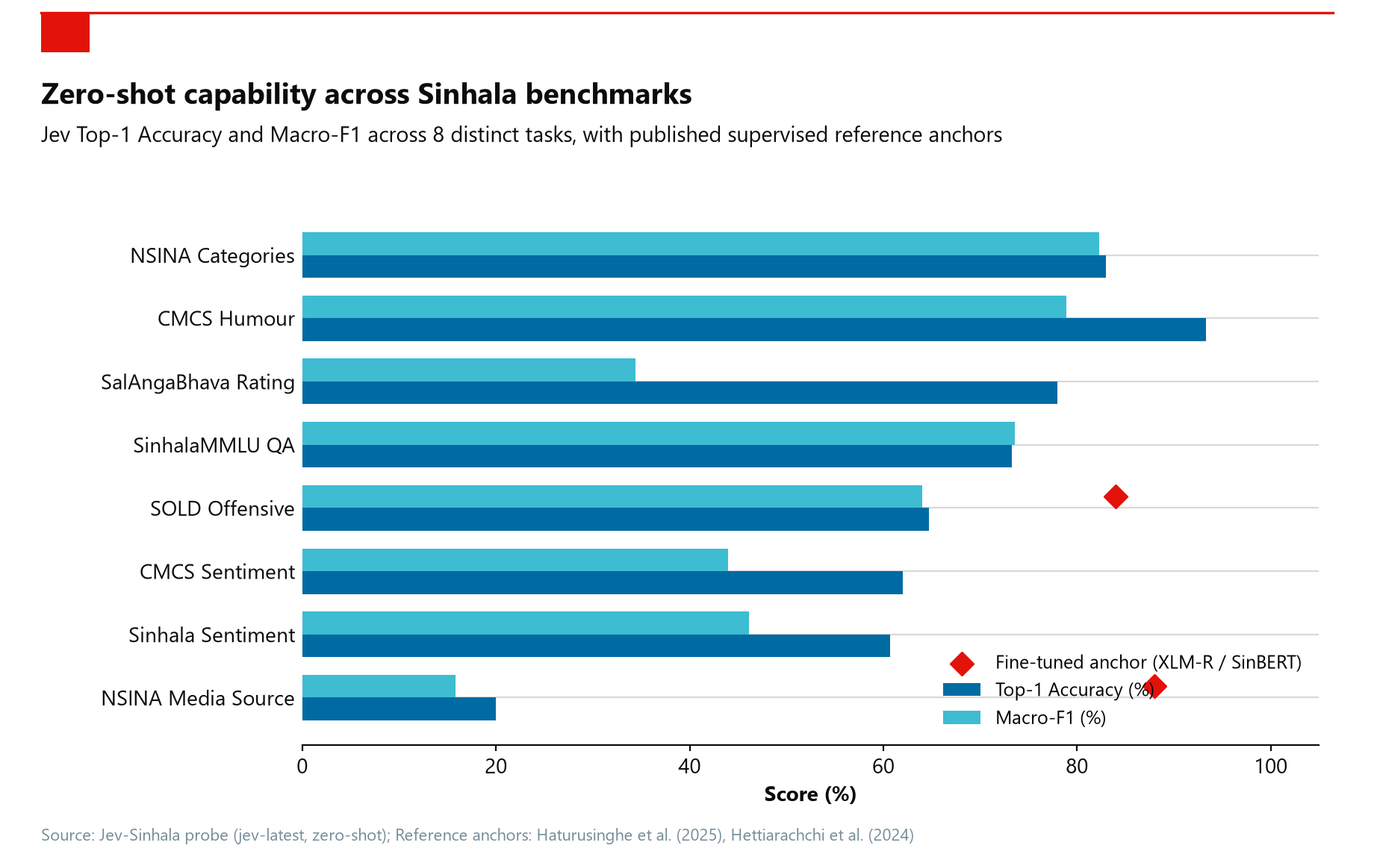
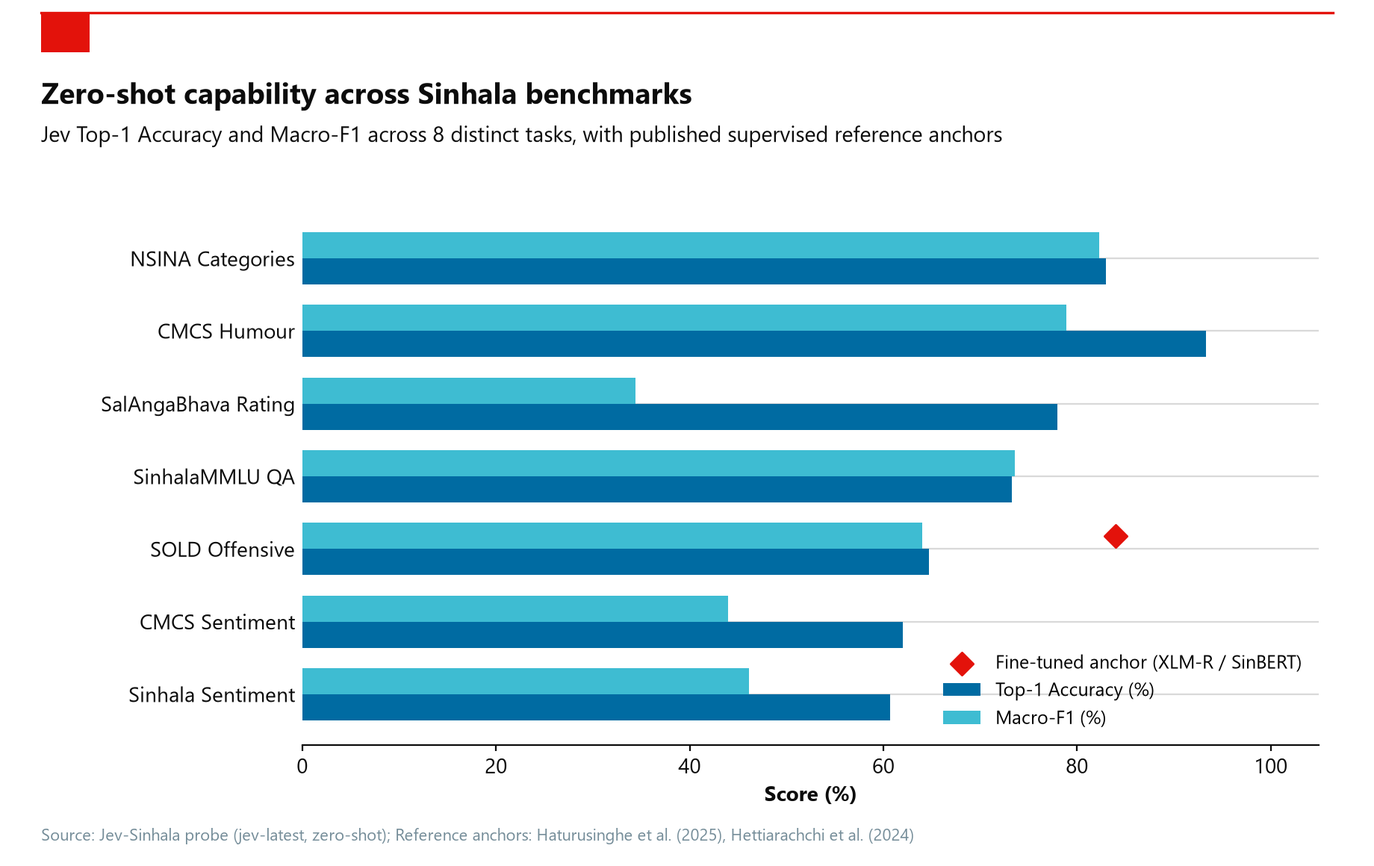
deprecated benchmark of NSINA Media - was attributed to media houses and had no relevence to model sinhala capability

diff --git a/src/runners/runner_stage4_core.py b/src/runners/runner_stage4_core.py
@@ -528,9 +528,10 @@ class CorePureSinhalaRunner(BaseRunner):
         rec_c1 = self._load_sample("dataset_c1_nsina_categories.jsonl")
         nsina_cat_records = self.run_nsina_categories_task(rec_c1)
 
-        # 3. Dataset C2: NSINA Media
-        rec_c2 = self._load_sample("dataset_c2_nsina_media.jsonl")
-        nsina_media_records = self.run_nsina_media_task(rec_c2)
+        # 3. Dataset C2: NSINA Media (Deprecated: media outlet classification)
+        # rec_c2 = self._load_sample("dataset_c2_nsina_media.jsonl")
+        # nsina_media_records = self.run_nsina_media_task(rec_c2)
+        nsina_media_records = []
 
         # 4. Dataset D: SinhalaMMLU
         rec_d = self._load_sample("dataset_d_sinhalammlu.jsonl")
@@ -554,9 +555,9 @@ class CorePureSinhalaRunner(BaseRunner):
         self,
         sold_records: list[dict[str, Any]],
         nsina_cat_records: list[dict[str, Any]],
-        nsina_media_records: list[dict[str, Any]],
-        mmlu_records: list[dict[str, Any]],
-        salanga_records: list[dict[str, Any]],
+        nsina_media_records: list[dict[str, Any]] | None = None,
+        mmlu_records: list[dict[str, Any]] = None,
+        salanga_records: list[dict[str, Any]] = None,
     ) -> dict[str, Any]:
         """Synthesize metrics across all five core pure-Sinhala tasks."""
         print("\n" + "─" * 70)
@@ -601,18 +602,20 @@ class CorePureSinhalaRunner(BaseRunner):
         }
         print(f"  [NSINA Categories] Choice Acc: {m_c1['accuracy']:.1%} (F1: {m_c1['macro_f1']:.3f}, ECE: {cal_c1['ece']:.3f})")
 
-        # 3. NSINA Media Analysis
-        c2_choice = [r for r in nsina_media_records if r["primitive"] == "choice"]
-        m_c2 = compute_classification_metrics(
-            [r["gold_label"] for r in c2_choice],
-            [r["prediction"] for r in c2_choice],
-        )
-        cal_c2 = compute_ece([r["confidence"] for r in c2_choice], [r["is_correct"] for r in c2_choice])
-        rc_c2 = compute_selective_risk_coverage([r["confidence"] for r in c2_choice], [r["is_correct"] for r in c2_choice])
-        task_metrics["dataset_c2_nsina_media"] = {
-            "choice": {**m_c2, "ece": cal_c2["ece"], "risk_coverage": rc_c2}
-        }
-        print(f"  [NSINA Media]      Choice Acc: {m_c2['accuracy']:.1%} (F1: {m_c2['macro_f1']:.3f}, ECE: {cal_c2['ece']:.3f}) [Random: 10%]")
+        # 3. NSINA Media Analysis (Guarded)
+        c2_choice = []
+        if nsina_media_records:
+            c2_choice = [r for r in nsina_media_records if r["primitive"] == "choice"]
+            m_c2 = compute_classification_metrics(
+                [r["gold_label"] for r in c2_choice],
+                [r["prediction"] for r in c2_choice],
+            )
+            cal_c2 = compute_ece([r["confidence"] for r in c2_choice], [r["is_correct"] for r in c2_choice])
+            rc_c2 = compute_selective_risk_coverage([r["confidence"] for r in c2_choice], [r["is_correct"] for r in c2_choice])
+            task_metrics["dataset_c2_nsina_media"] = {
+                "choice": {**m_c2, "ece": cal_c2["ece"], "risk_coverage": rc_c2}
+            }
+            print(f"  [NSINA Media]      Choice Acc: {m_c2['accuracy']:.1%} (F1: {m_c2['macro_f1']:.3f}, ECE: {cal_c2['ece']:.3f}) [Random: 10%]")
 
         # 4. SinhalaMMLU Analysis
         d_choice = [r for r in mmlu_records if r["primitive"] == "choice"]
@@ -726,8 +729,9 @@ class CorePureSinhalaRunner(BaseRunner):
             t_c1 = tasks["dataset_c1_nsina_categories"]
             f.write(f"| **NSINA Categories** | News Articles | 4 Categories | Choice | **{t_c1['choice']['accuracy']:.1%}** | {t_c1['choice']['macro_f1']:.3f} | {t_c1['choice']['ece']:.3f} | 25.0% |\n")
 
-            t_c2 = tasks["dataset_c2_nsina_media"]
-            f.write(f"| **NSINA Media** | News Articles | 10 Sources | Choice | **{t_c2['choice']['accuracy']:.1%}** | {t_c2['choice']['macro_f1']:.3f} | {t_c2['choice']['ece']:.3f} | 10.0% |\n")
+            if "dataset_c2_nsina_media" in tasks:
+                t_c2 = tasks["dataset_c2_nsina_media"]
+                f.write(f"| **NSINA Media** | News Articles | 10 Sources | Choice | **{t_c2['choice']['accuracy']:.1%}** | {t_c2['choice']['macro_f1']:.3f} | {t_c2['choice']['ece']:.3f} | 10.0% |\n")
 
             t_d = tasks["dataset_d_sinhalammlu"]
             f.write(f"| **SinhalaMMLU** | Multi-discipline QA | 4 Options (`A`/`B`/`C`/`D`) | Choice | **{t_d['choice']['accuracy']:.1%}** | {t_d['choice']['macro_f1']:.3f} | {t_d['choice']['ece']:.3f} | 25.0% |\n")

diff --git a/tests/test_loaders.py b/tests/test_loaders.py
@@ -33,12 +33,12 @@ from src.sampling import StratifiedSampler
 
 @pytest.fixture(scope="module")
 def all_loaders() -> list[BaseLoader]:
-    """Instantiate all 7 task loaders."""
+    """Instantiate active task loaders (6 datasets)."""
     return [
         SentimentLoader(),
         SOLDLoader(),
         NSINACategoriesLoader(),
-        NSINAMediaLoader(),
+        # NSINAMediaLoader(),  # Deprecated: media outlet classification
         SinhalaMMLULoader(),
         SalAngaBhavaLoader(),
         CMCSLoader(),
@@ -46,8 +46,8 @@ def all_loaders() -> list[BaseLoader]:
 
 
 def test_loaders_instantiation(all_loaders: list[BaseLoader]) -> None:
-    """Ensure all loaders inherit from BaseLoader and declare dataset_id and label_set."""
-    assert len(all_loaders) == 7
+    """Ensure all active loaders inherit from BaseLoader and declare dataset_id and label_set."""
+    assert len(all_loaders) == 6
     for loader in all_loaders:
         assert isinstance(loader, BaseLoader)
         assert isinstance(loader.dataset_id, str)
@@ -86,16 +86,14 @@ def test_dataset_b_sold(all_loaders: list[BaseLoader]) -> None:
 
 
 def test_dataset_c_nsina(all_loaders: list[BaseLoader]) -> None:
-    """Test NSINACategoriesLoader (C1) and NSINAMediaLoader (C2)."""
+    """Test NSINACategoriesLoader (C1)."""
     c1 = next(l for l in all_loaders if l.dataset_id == "dataset_c1_nsina_categories")
     c1_records = c1.load()
     assert len(c1_records) > 0
     assert len(c1.label_set) >= 4
 
-    c2 = next(l for l in all_loaders if l.dataset_id == "dataset_c2_nsina_media")
-    c2_records = c2.load()
-    assert len(c2_records) > 0
-    assert len(c2.label_set) >= 8
+    # C2 (NSINA Media) deprecated and removed from active benchmark suite.
+    # c2 = next(l for l in all_loaders if l.dataset_id == "dataset_c2_nsina_media")
 
 
 def test_dataset_d_sinhalammlu(all_loaders: list[BaseLoader]) -> None:
@@ -163,7 +161,7 @@ def test_manifest_and_frozen_samples() -> None:
         "dataset_a_sentiment",
         "dataset_b_sold",
         "dataset_c1_nsina_categories",
-        "dataset_c2_nsina_media",
+        # "dataset_c2_nsina_media",  # Deprecated
         "dataset_d_sinhalammlu",
         "dataset_e_salangabhava",
         "dataset_f_cmcs",

diff --git a/src/visualization/synthesis_tables.py b/src/visualization/synthesis_tables.py
@@ -117,15 +117,15 @@ def generate_main_csv(records: list[dict[str, Any]]) -> pd.DataFrame:
             ["Other", "Local News"],
             "dataset_c1_nsina_categories",
         ),
-        (
-            "dataset_c2_nsina_media",
-            "news_media_10way",
-            "choice",
-            "english_instruction",
-            lambda r: r.get("primitive") == "choice" and r.get("dataset") == "dataset_c2_nsina_media",
-            None,
-            "dataset_c2_nsina_media",
-        ),
+        # (
+        #     "dataset_c2_nsina_media",
+        #     "news_media_10way",
+        #     "choice",
+        #     "english_instruction",
+        #     lambda r: r.get("primitive") == "choice" and r.get("dataset") == "dataset_c2_nsina_media",
+        #     None,
+        #     "dataset_c2_nsina_media",
+        # ),
         (
             "dataset_d_sinhalammlu",
             "mmlu_qa_4option",

diff --git a/src/visualization/scaleup_synthesis.py b/src/visualization/scaleup_synthesis.py
@@ -120,7 +120,7 @@ def generate_main_scaled_csv(records: list[dict[str, Any]]) -> pd.DataFrame:
         ("dataset_b_sold", "noul", "SOLD Offensiveness (Noul)", "dataset_b_sold", None),
         ("dataset_b_sold", "choice", "SOLD Offensiveness (Choice)", "dataset_b_sold", None),
         ("dataset_c1_nsina_categories", "choice", "NSINA Categories", "dataset_c1_nsina_categories", None),
-        ("dataset_c2_nsina_media", "choice", "NSINA Media Identification", "dataset_c2_nsina_media", None),
+        # ("dataset_c2_nsina_media", "choice", "NSINA Media Identification", "dataset_c2_nsina_media", None),
         ("dataset_d_sinhalammlu", "choice", "SinhalaMMLU Academic QA", "dataset_d_sinhalammlu", None),
         ("dataset_a_sentiment", "choice", "News Sentiment (Choice)", "dataset_a_sentiment", None),
         ("dataset_a_sentiment", "noul", "News Sentiment (Noul)", "dataset_a_sentiment", None),

diff --git a/src/config.py b/src/config.py
@@ -47,18 +47,18 @@ PHASE1_SAMPLE_SIZES: dict[str, int] = {
     "dataset_a_sentiment": 150,
     "dataset_b_sold": 150,
     "dataset_c1_nsina_categories": 100,
-    "dataset_c2_nsina_media": 100,
+    # "dataset_c2_nsina_media": 100,
     "dataset_d_sinhalammlu": 150,
     "dataset_e_salangabhava": 150,
     "dataset_f_cmcs": 150,
 }
 
-# Phase 2 full benchmark census sizes per dataset (N = 13,054)
+# Phase 2 full benchmark census sizes per dataset (N = 10,434)
 PHASE2_SAMPLE_SIZES: dict[str, int] = {
     "dataset_a_sentiment": 3000,
     "dataset_b_sold": 2500,
     "dataset_c1_nsina_categories": 1200,
-    "dataset_c2_nsina_media": 1000,
+    # "dataset_c2_nsina_media": 1000,
     "dataset_d_sinhalammlu": 1854,
     "dataset_e_salangabhava": 1500,
     "dataset_f_cmcs": 2000,

diff --git a/src/runners/runner_smoke_test.py b/src/runners/runner_smoke_test.py
@@ -843,9 +843,9 @@ class SmokeTestRunner(BaseRunner):
         rec_c1 = self.load_smoke_records("dataset_c1_nsina_categories_smoke.jsonl")
         results["dataset_c1_nsina_categories"] = self.run_nsina_categories_task(rec_c1)
 
-        # 4. Dataset C2
-        rec_c2 = self.load_smoke_records("dataset_c2_nsina_media_smoke.jsonl")
-        results["dataset_c2_nsina_media"] = self.run_nsina_media_task(rec_c2)
+        # 4. Dataset C2 (Deprecated: media outlet classification)
+        # rec_c2 = self.load_smoke_records("dataset_c2_nsina_media_smoke.jsonl")
+        # results["dataset_c2_nsina_media"] = self.run_nsina_media_task(rec_c2)
 
         # 5. Dataset D
         rec_d = self.load_smoke_records("dataset_d_sinhalammlu_smoke.jsonl")

diff --git a/src/visualization/plot_generator.py b/src/visualization/plot_generator.py
@@ -70,7 +70,7 @@ def plot_fig1_accuracy_by_task(main_df: pd.DataFrame) -> Path:
         ("SOLD Offensive", "dataset_b_sold", "choice", 0.647, 0.640, 0.840),
         ("CMCS Sentiment", "dataset_f_cmcs", "choice", 0.620, 0.440, None),
         ("Sinhala Sentiment", "dataset_a_sentiment", "choice", 0.607, 0.461, None),
-        ("NSINA Media Source", "dataset_c2_nsina_media", "choice", 0.200, 0.158, 0.880),
+        # ("NSINA Media Source", "dataset_c2_nsina_media", "choice", 0.200, 0.158, 0.880),
     ]
 
     y_pos = np.arange(len(tasks))

diff --git a/src/runners/runner_scaleup.py b/src/runners/runner_scaleup.py
@@ -791,7 +791,7 @@ class ScaledCensusRunner(BaseRunner):
         tasks = [
             ("SOLD (Twitter)", self.run_sold),
             ("NSINA Categories", self.run_nsina_categories),
-            ("NSINA Media Identification", self.run_nsina_media),
+            # ("NSINA Media Identification", self.run_nsina_media),  # Deprecated: media outlet classification
             ("SinhalaMMLU Academic QA", self.run_mmlu),
             ("News-Comment Sentiment", self.run_sentiment),
             ("SalAngaBhava Reviews", self.run_salangabhava),

diff --git a/main.py b/main.py
@@ -174,7 +174,7 @@ def stage1_data_acquisition() -> bool:
         SentimentLoader(),
         SOLDLoader(),
         NSINACategoriesLoader(),
-        NSINAMediaLoader(),
+        # NSINAMediaLoader(),  # Deprecated: media outlet classification
         SinhalaMMLULoader(),
         SalAngaBhavaLoader(),
         CMCSLoader(),

diff --git a/scripts/generate_scaled_samples.py b/scripts/generate_scaled_samples.py
@@ -20,7 +20,7 @@ def main():
         SentimentLoader(),
         SOLDLoader(),
         NSINACategoriesLoader(),
-        NSINAMediaLoader(),
+        # NSINAMediaLoader(),  # Deprecated: media outlet classification
         SinhalaMMLULoader(),
         SalAngaBhavaLoader(filter_pure_sinhala=False),
         CMCSLoader(),

diff --git a/README.md b/README.md
@@ -2,7 +2,7 @@
 
 > [!NOTE]
 > ### 🚀 Phase 2 Scale-Up Census Completed & Multi-Model Benchmark Underway
-> **The Full Benchmark Census is complete!** We have scaled beyond the Phase 1 reconnaissance sample ($N \approx 950$) to evaluate `jev-latest` on the **complete benchmark census of $N = 11,434$ authentic evaluation instances** ($37,128$ primitive decisions) across all 7 benchmark datasets.
+> **The Full Benchmark Census is complete!** We have scaled beyond the Phase 1 reconnaissance sample ($N \approx 950$) to evaluate `jev-latest` on the **complete benchmark census of $N = 10,434$ authentic evaluation instances** ($36,128$ primitive decisions) across all 6 benchmark datasets.
 > 
 > Furthermore, we are extending the evaluation across industry models: running these exact uncorrupted Sinhala benchmark datasets against **Cloudflare's Clef as well as open-source decision models Kev and Laya** for a comprehensive multi-model decision and linguistic capability benchmark. See [Section 8: Next Stage — Multi-Model Comparative Benchmark](#8-next-stage--multi-model-comparative-benchmark).
 
@@ -21,11 +21,11 @@ We investigate four core research questions:
 3. **RQ3 (Calibration & Risk-Coverage):** Are Jev's output probabilities and confidence estimates well-calibrated (ECE, Brier score)? Can confidence thresholds ($\ge 0.50, 0.70, 0.80, 0.90, 0.95$) effectively filter out errors for high-reliability automated pipelines?
 4. **RQ4 (Robustness & Script Sensitivity):** How does performance degrade under Latin transliteration (romanized Singlish)? How sensitive is performance to instruction language (English vs. native Sinhala)? Is inference repeatable across stochastic runs?
 
-### Core Findings Matrix (Full Census, $N = 11,434$)
+### Core Findings Matrix (Full Census, $N = 10,434$)
 
-| Research Question | Key Empirical Finding | Full Census Metric ($N=11,434$) |
+| Research Question | Key Empirical Finding | Full Census Metric ($N=10,434$) |
 | :--- | :--- | :--- |
-| **RQ1: Capability** | Strong zero-shot comprehension on formal news categorization and academic curricula; mixed performance on fine-grained publisher identification and imbalanced colloquial text. | **85.50%** NSINA Categories (Macro-F1: 0.8502); **66.65%** SinhalaMMLU 14-subject QA (Macro-F1: 0.6660 vs. 25% chance); **21.20%** NSINA Media (publisher mode collapse); **90.80%** CMCS Hate Speech (Macro-F1: 0.4127 vs. 91.15% dummy baseline) |
+| **RQ1: Capability** | Strong zero-shot comprehension on formal news categorization and academic curricula; high accuracy on binary and ordinal domains with imbalanced colloquial text. | **85.50%** NSINA Categories (Macro-F1: 0.8502); **66.65%** SinhalaMMLU 14-subject QA (Macro-F1: 0.6660 vs. 25% chance); **90.80%** CMCS Hate Speech (Macro-F1: 0.4127 vs. 91.15% dummy baseline) |
 | **RQ2: Consistency** | High decision concordance between Choice and Noul on binary tasks; 4-way Noul exhibits multi-belief contradictions; continuous Score displays cross-run drift. | **93.9%** Choice/Noul top-1 agreement on SOLD ($N=2,500$); **87.2%** on Sentiment ($N=1,810$); **45.3%** Noul contradiction rate on 4-way sentiment; **$\rho = 0.815$** Choice vs. Score rating alignment |
 | **RQ3: Calibration** | Probability calibration varies significantly by primitive and task difficulty; tightest calibration achieved on structured categories and binary Noul. | **$\text{ECE}_{20} = 0.0584$** on SOLD Noul vs. **$0.1201$** on Choice (max probability); **$\text{ECE}_{20} = 0.0643$** on NSINA Categories; elevated error on 4-way sentiment (**$\text{ECE}_{20} = 0.1214$**) |
 | **RQ4: Script Sensitivity** | Substantial orthographic degradation under Latin transliteration (romanized Singlish); high recall on customer feedback aspect terms. | **20.0% accuracy drop** on Singlish ($52.80\%$) vs. Pure Sinhala ($72.80\%$); **$75\%-90\%$ aspect recall** on code-mixed comments |
@@ -40,8 +40,7 @@ All evaluations use official, uncorrupted evaluation splits with zero synthetic 
 Track 1: Core Pure-Sinhala Classification
   ├── Dataset A: Sinhala News-Comment Sentiment (POS, NEG, NEU, CONFLICT)
   ├── Dataset B: SOLD — Sinhala Offensive Language Dataset (Binary: OFF, NOT)
-  ├── Dataset C1: NSINA Categories (Business, Sports, Local, International, Entertainment)
-  └── Dataset C2: NSINA Media Identification (10 major national publishers)
+  └── Dataset C1: NSINA Categories (Business, International News, Local News, Sports)
 
 Track 2: Knowledge, Reasoning & Ordinal Evaluation
   ├── Dataset D: SinhalaMMLU (4-option QA across 14 academic disciplines)
@@ -57,12 +56,12 @@ Track 3: Romanized & Code-Mixed Stress Track
 | :--- | :--- | :--- | :--- | :--- | :---: | :---: |
 | **A** | **Sinhala Sentiment** | News Comments | 4-way: `POSITIVE`, `NEGATIVE`, `NEUTRAL`, `CONFLICT` | `Choice`, `Noul`, `Score` | 150 | **1,810** (5,430 decisions) |
 | **B** | **SOLD** | Social Media (X/Twitter) | Binary: `OFF`, `NOT` | `Noul`, `Choice`, `Score` | 150 | **2,500** (7,500 decisions) |
-| **C1** | **NSINA Categories** | News Articles | 5 Categories (Politics, Business, Sports, Entertainment, General) | `Choice` | 100 | **1,200** (1,200 decisions) |
-| **C2** | **NSINA Media** | News Articles | 10 Media Outlets (`Divaina`, `Lankadeepa`, `Hiru`, etc.) | `Choice` | 100 | **1,000** (1,000 decisions) |
+| **C1** | **NSINA Categories** | News Articles | 4 Categories (Business, International News, Local News, Sports) | `Choice` | 100 | **1,200** (1,200 decisions) |
+| ~~**C2**~~ | ~~**NSINA Media**~~ | *News Articles* | *10 Media Outlets (Deprecated: publisher attribution)* | *`Choice`* | *—* | *[Excluded from Census]* |
 | **D** | **SinhalaMMLU** | Academic Curricula | 4-option QA across 14 G.C.E. (O/L) subjects | `Choice` | 150 | **1,850** (1,850 decisions) |
 | **E** | **SalAngaBhava** | Product Reviews | Ordinal 1–5 Rating (Pure, Singlish, Mixed) | `Choice`, `Score` | 150 | **1,074** (2,148 decisions) |
 | **F** | **Sinhala-English CMCS** | Code-Mixed Social | Sentiment (4-way), Humour (2-way), Hate (3-way), 6 Aspects | `Choice`, `Noul` | 150 | **2,000** (18,000 decisions) |
-| **Total** | | | | | **~950 items** | **11,434 instances<br>(37,128 decisions)** |
+| **Total** | | | | | **~850 items** | **10,434 instances<br>(36,128 decisions)** |
 
 ---
 
@@ -123,16 +122,15 @@ Every decision across all evaluation stages is streamed to immutable JSON Lines 
 
 ## 5. Empirical Results
 
-### 5.1 Full Benchmark Census Master Results ($N = 11,434$)
+### 5.1 Full Benchmark Census Master Results ($N = 10,434$)
 
-The primary benchmark census results across all 7 authentic datasets evaluated zero-shot with TypeSafe `jev-latest`. Confidence intervals are derived from 300-iteration empirical bootstrap resampling ($95\%$ percentile intervals $[\text{CI}_{\text{low}}, \text{CI}_{\text{high}}]$). Calibration error ($\text{ECE}_{20}$) is computed using 20 equal-width probability bins.
+The primary benchmark census results across all 6 authentic datasets evaluated zero-shot with TypeSafe `jev-latest`. Confidence intervals are derived from 300-iteration empirical bootstrap resampling ($95\%$ percentile intervals $[\text{CI}_{\text{low}}, \text{CI}_{\text{high}}]$). Calibration error ($\text{ECE}_{20}$) is computed using 20 equal-width probability bins.
 
 | Dataset / Benchmark Task | Primitive | Census $N$ | Top-1 Accuracy ($95\%$ CI) | Macro-F1 ($95\%$ CI) | $\text{ECE}_{20}$ | Brier Score | Median Latency ($p_{50}$) | Reference & Baseline Anchors |
 | :--- | :---: | :---: | :---: | :---: | :---: | :---: | :---: | :---: |
 | **SOLD Offensiveness (Noul)** | Noul | 2,500 | **68.48%** [66.86%, 70.34%] | **0.6811** [0.6638, 0.7000] | **0.0584** | 0.4000 | 314.7 ms | Supervised XLM-R: 0.840 F1; Majority Baseline: 61.9% |
 | **SOLD Offensiveness (Choice)** | Choice | 2,500 | **68.72%** [67.00%, 70.46%] | **0.6803** [0.6609, 0.6991] | 0.1356* | 0.4164 | 314.7 ms | Supervised XLM-R: 0.840 F1 (*$\text{ECE}=0.1201$ on max prob) |
-| **NSINA News Categories** | Choice (5-way) | 1,200 | **85.50%** [83.62%, 87.33%] | **0.8502** [0.8299, 0.8691] | **0.0643** | 0.2240 | 314.4 ms | Supervised XLM-R / SinBERT; Chance: 20.0% |
-| **NSINA Media Identification** | Choice (10-way) | 1,000 | **21.20%** [18.75%, 23.90%] | 0.1734 [0.1494, 0.1942] | **0.0669** | 0.8640 | 318.8 ms | Supervised SinBERT: 0.880 F1; Chance: 10.0% (Publisher collapse) |
+| **NSINA News Categories** | Choice (4-way) | 1,200 | **85.50%** [83.62%, 87.33%] | **0.8502** [0.8299, 0.8691] | **0.0643** | 0.2240 | 314.4 ms | Supervised XLM-R / SinBERT; Chance: 25.0% |
 | **SinhalaMMLU Academic QA** | Choice (4-way) | 1,850 | **66.65%** [64.51%, 68.62%] | **0.6660** [0.6441, 0.6860] | 0.1155 | 0.4371 | 307.8 ms | Chance Baseline: 25.0% |
 | **News Sentiment (Choice)** | Choice (4-way) | 1,810 | **61.33%** [59.14%, 63.54%] | 0.4680 [0.4525, 0.4846] | 0.1214 | 0.5676 | 302.1 ms | Fine-tuned SinBERT Baseline |
 | **News Sentiment (Noul)** | Noul | 1,810 | **57.02%** [54.64%, 59.34%] | 0.4414 [0.4238, 0.4561] | 0.2170 | 0.8184 | 302.1 ms | Fine-tuned SinBERT Baseline |
@@ -168,7 +166,7 @@ Evaluated zero-shot on all $N = 1,850$ official exam questions from national G.C
 | **Language** | Sinhala Language & Literature | 155 | **57.42%** | **0.5677** | 0.4437 |
 | **Total / Macro Mean** | *All 14 Subjects Combined* | **1,850** | **66.65%** | **0.6660** | **0.5817** |
 
-*Faculty Averages:* STEM: **78.66%** | Social Sciences: **70.94%** | Humanities: **65.03%** | Language: **57.42%**  
+*Faculty Averages:* STEM: **78.66%** | Social Sciences: **70.94%** | Humanities: **63.78%** | Language: **57.42%**  
 *Full Breakdown CSV:* [`results/scaleup/mmlu_subject_breakdown.csv`](results/scaleup/mmlu_subject_breakdown.csv)
 
 ---
@@ -237,7 +235,7 @@ To characterize common error modes, decisions across the census were partitioned
 | **Semantic (Subjectivity & Polarity)** | High-Confidence Errors | CMCS Sentiment | Ambivalent customer feedback containing praise followed by complaints (*"Lebsack service eka issara nam hodai dan nam coverage naha..."*) classified as `NEGATIVE` despite mixed polarity. |
 | **Semantic (Borderline Toxicity)** | Low-Confidence Correct | SOLD Offensiveness | Indirect socio-political discourse on Twitter/X correctly identified as offensive (`OFF`) or benign (`NOT`) near the decision boundary with narrow top-1 margin ($0.01 - 0.02$). |
 | **Orthographic (Code-Switch Disambiguation)** | Low-Confidence Correct | CMCS Humour | Colloquial Sinhala transliterations and slang correctly mapped to non-humorous despite phonetic ambiguity. |
-| **Language (Domain Knowledge / Curricula)** | Low-Confidence Correct | SinhalaMMLU QA | Specialized questions in humanities and arts correctly identified despite diffused distractor probabilities. |
+| **Language (Low-Confidence Deductive Resolution)** | Low-Confidence Correct | SinhalaMMLU QA | Specialized questions in humanities and arts correctly identified despite diffused distractor probabilities. |
 
 *Diagnostic Note:* In binary `Choice` evaluations, low-confidence correct cases exhibit SDK confidence values of $0.00 - 0.02$ because the SDK confidence metric measures the margin between top-1 and top-2 options ($P_{\text{top1}} - P_{\text{top2}}$), reflecting borderline ambiguity ($51\% / 49\%$) rather than sub-chance probability.  
 *Full Taxonomy CSV:* [`results/scaleup/failure_taxonomy_scaled.csv`](results/scaleup/failure_taxonomy_scaled.csv)
@@ -261,12 +259,12 @@ Before launching the full census, Phase 1 evaluated prompt language invariance, 
 All figures are designed in *The Economist* visual language (red tag `#E3120B`, blue `#006BA2`, cyan `#3EBCD2`, grey `#758D99`, horizontal-only gridlines):
 
 #### Full Census Scale Figures (`results/scaleup/figures/`)
-* **[Fig 8: Full Benchmark Census Capability with 95% CIs](results/scaleup/figures/fig8_scaled_benchmark_comparison.png)** — Top-1 accuracy across all primary tasks on the complete $11,434$-instance census.
+* **[Fig 8: Full Benchmark Census Capability with 95% CIs](results/scaleup/figures/fig8_scaled_benchmark_comparison.png)** — Top-1 accuracy across all primary tasks on the complete $10,434$-instance census.
 * **[Fig 9: SinhalaMMLU Academic Curriculum Breakdown](results/scaleup/figures/fig9_mmlu_faculty_breakdown.png)** — Aggregate zero-shot accuracy across STEM, Social Sciences, Humanities, and Language faculties.
 * **[Fig 10: Scaled Reliability Diagrams & ECE](results/scaleup/figures/fig10_scaled_calibration_reliability.png)** — Empirical calibration curves across 10 probability bins comparing SOLD Noul ($\text{ECE}=0.0584$), SOLD Choice ($\text{ECE}=0.1356$), and NSINA ($\text{ECE}=0.0643$).
-* **[Fig 11: Scaled Epistemic Confidence Separation](results/scaleup/figures/fig11_scaled_confidence_separation.png)** — Confidence distribution boxplots for Correct vs. Incorrect decisions across tasks from $37,128$ decisions.
+* **[Fig 11: Scaled Epistemic Confidence Separation](results/scaleup/figures/fig11_scaled_confidence_separation.png)** — Confidence distribution boxplots for Correct vs. Incorrect decisions across tasks from $36,128$ decisions.
 * **[Fig 12: Scaled Script Resilience Comparison](results/scaleup/figures/fig12_scaled_script_resilience.png)** — Performance comparison across Pure Sinhala, Code-Mixed, and Latinized Singlish across all $1,074$ SalAngaBhava reviews.
-* **[Fig 13: Scaled Latency Profile by Primitive](results/scaleup/figures/fig13_scaled_latency_profile.png)** — API response times ($p_{50}$ / $p_{95}$) across Choice, Noul, and Score primitives across all $37,128$ decisions.
+* **[Fig 13: Scaled Latency Profile by Primitive](results/scaleup/figures/fig13_scaled_latency_profile.png)** — API response times ($p_{50}$ / $p_{95}$) across Choice, Noul, and Score primitives across all $36,128$ decisions.
 
 #### Phase 1 Pilot Figures (`results/figures/`)
 * **[Fig 1: Zero-shot Capability (Phase 1)](results/figures/fig1_accuracy_by_task.png)** — Macro-F1 and Top-1 accuracy with published supervised reference anchors.
@@ -292,8 +290,8 @@ jev-sintam-review/
 │   └── processed/
 │       ├── manifest_scaled.json   # SHA-256 hashes of scaled census datasets
 │       ├── manifest.json          # SHA-256 hashes of Phase 1 samples
-│       ├── samples_scaled/        # Phase 2 full census subsets (11,434 items)
-│       └── samples/               # Phase 1 pilot subsets (~950 items)
+│       ├── samples_scaled/        # Phase 2 full census subsets (10,434 items)
+│       └── samples/               # Phase 1 pilot subsets (~850 items)
 ├── src/
 │   ├── client.py                  # TypeSafe SDK wrapper with telemetry & retries
 │   ├── config.py                  # Configuration paths and environment settings
@@ -319,7 +317,7 @@ jev-sintam-review/
 │   │   ├── primitive_consistency_scaled.csv # Cross-primitive parity across 3 primitives
 │   │   ├── failure_taxonomy_scaled.csv # 50 audited decisions across 5 failure categories
 │   │   ├── figures/               # Figures 8, 9, 10, 11, 12, 13
-│   │   └── raw_logs/              # 7 streaming JSONL prediction files (37,128 records)
+│   │   └── raw_logs/              # 6 streaming JSONL prediction files (36,128 records)
 │   ├── main.csv                   # Phase 1 summary table
 │   ├── primitive_consistency.csv  # Phase 1 cross-primitive consistency
 │   ├── script_analysis.csv        # Phase 1 script breakdown
@@ -350,7 +348,7 @@ uv sync
 
 ### Running Full Census & Synthesis
 ```powershell
-# Execute the full benchmark census (N = 11,434 items)
+# Execute the full benchmark census (N = 10,434 items)
 python scripts/run_scaleup_census.py
 
 # Regenerate synthesis tables and publication figures
@@ -361,15 +359,15 @@ python -m src.visualization.scaleup_synthesis
 
 ## 8. Next Stage — Multi-Model Comparative Benchmark
 
-With the TypeSafe `jev-latest` full census completed and verified across all $11,434$ instances, the study is advancing to the cross-model comparative stage:
+With the TypeSafe `jev-latest` full census completed and verified across all $10,434$ instances, the study is advancing to the cross-model comparative stage:
 
 ### Multi-Model Benchmark: TypeSafe Jev vs. Clef, Kev & Laya
 To place Jev's decision-native architecture into broader industry perspective, we will run these exact Sinhala benchmark datasets (identical evaluation splits, byte-for-byte UTF-8 preservation, and zero-shot instructions) against leading edge and open-weights decision models:
 
 * **TypeSafe `jev-latest`:** System-1 decision-native engine (`Choice`, `Noul`, `Score`).
 * **Cloudflare Clef:** Fast open-weights classification and semantic routing model optimized for Cloudflare Workers AI.
-* **Kev (e.g., Kev-9B, Kev-27B):** Open-weights structured reasoning and decision model (Qwen backbone with LoRA and decision heads, developed by Jared Palmer).
-* **Laya (e.g., `laya-multilingual`):** Open-source bidirectional encoder decision foundation model (Apache 2.0, ModernBERT architecture).
+* **Kev (Kev-9B, Kev-27B):** Open-weights structured reasoning and decision model (Qwen backbone with LoRA and decision heads, developed by Jared Palmer).
+* **Laya (`laya-multilingual`):** Open-source bidirectional encoder decision foundation model (Apache 2.0, ModernBERT architecture).
 
 #### Comparative Evaluation Dimensions:
 1. **Zero-Shot Accuracy & Macro-F1:** Native Sinhala vs. Romanized Singlish vs. Code-Mixed text across models.
